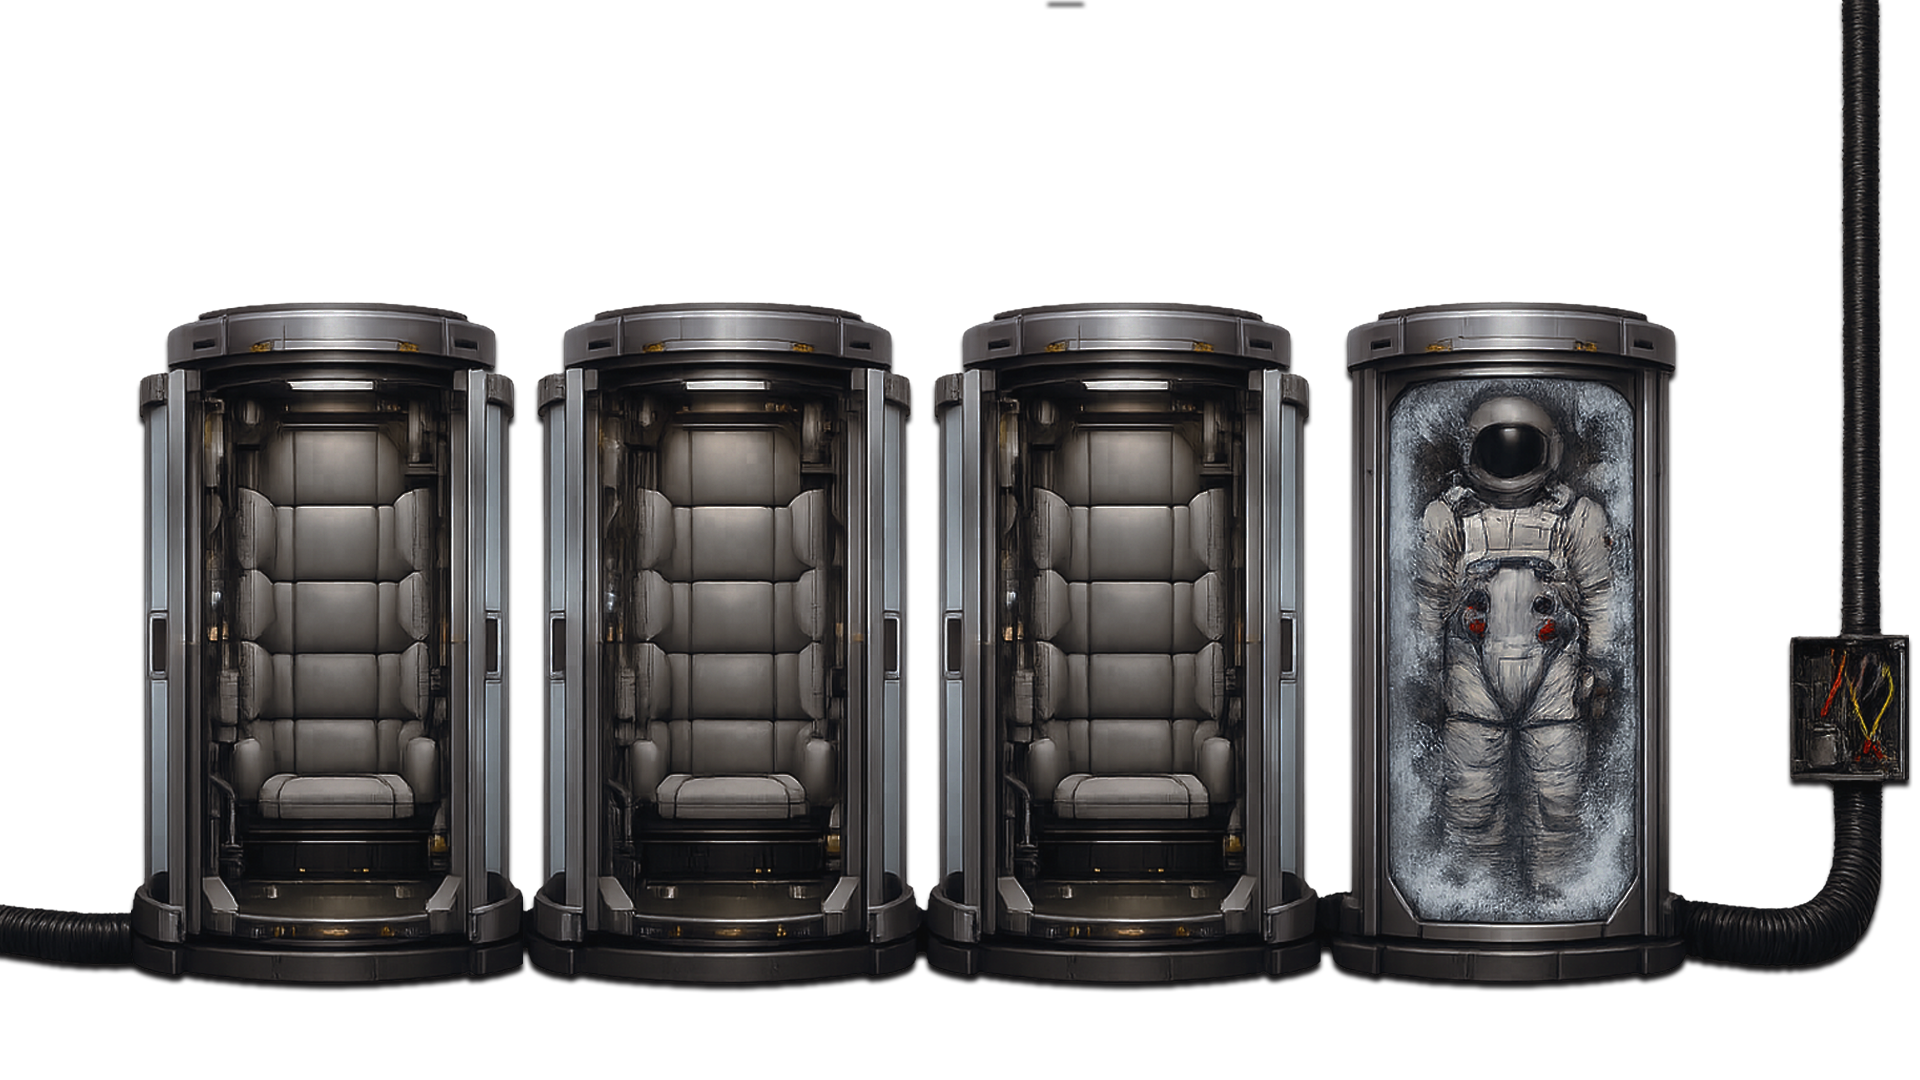
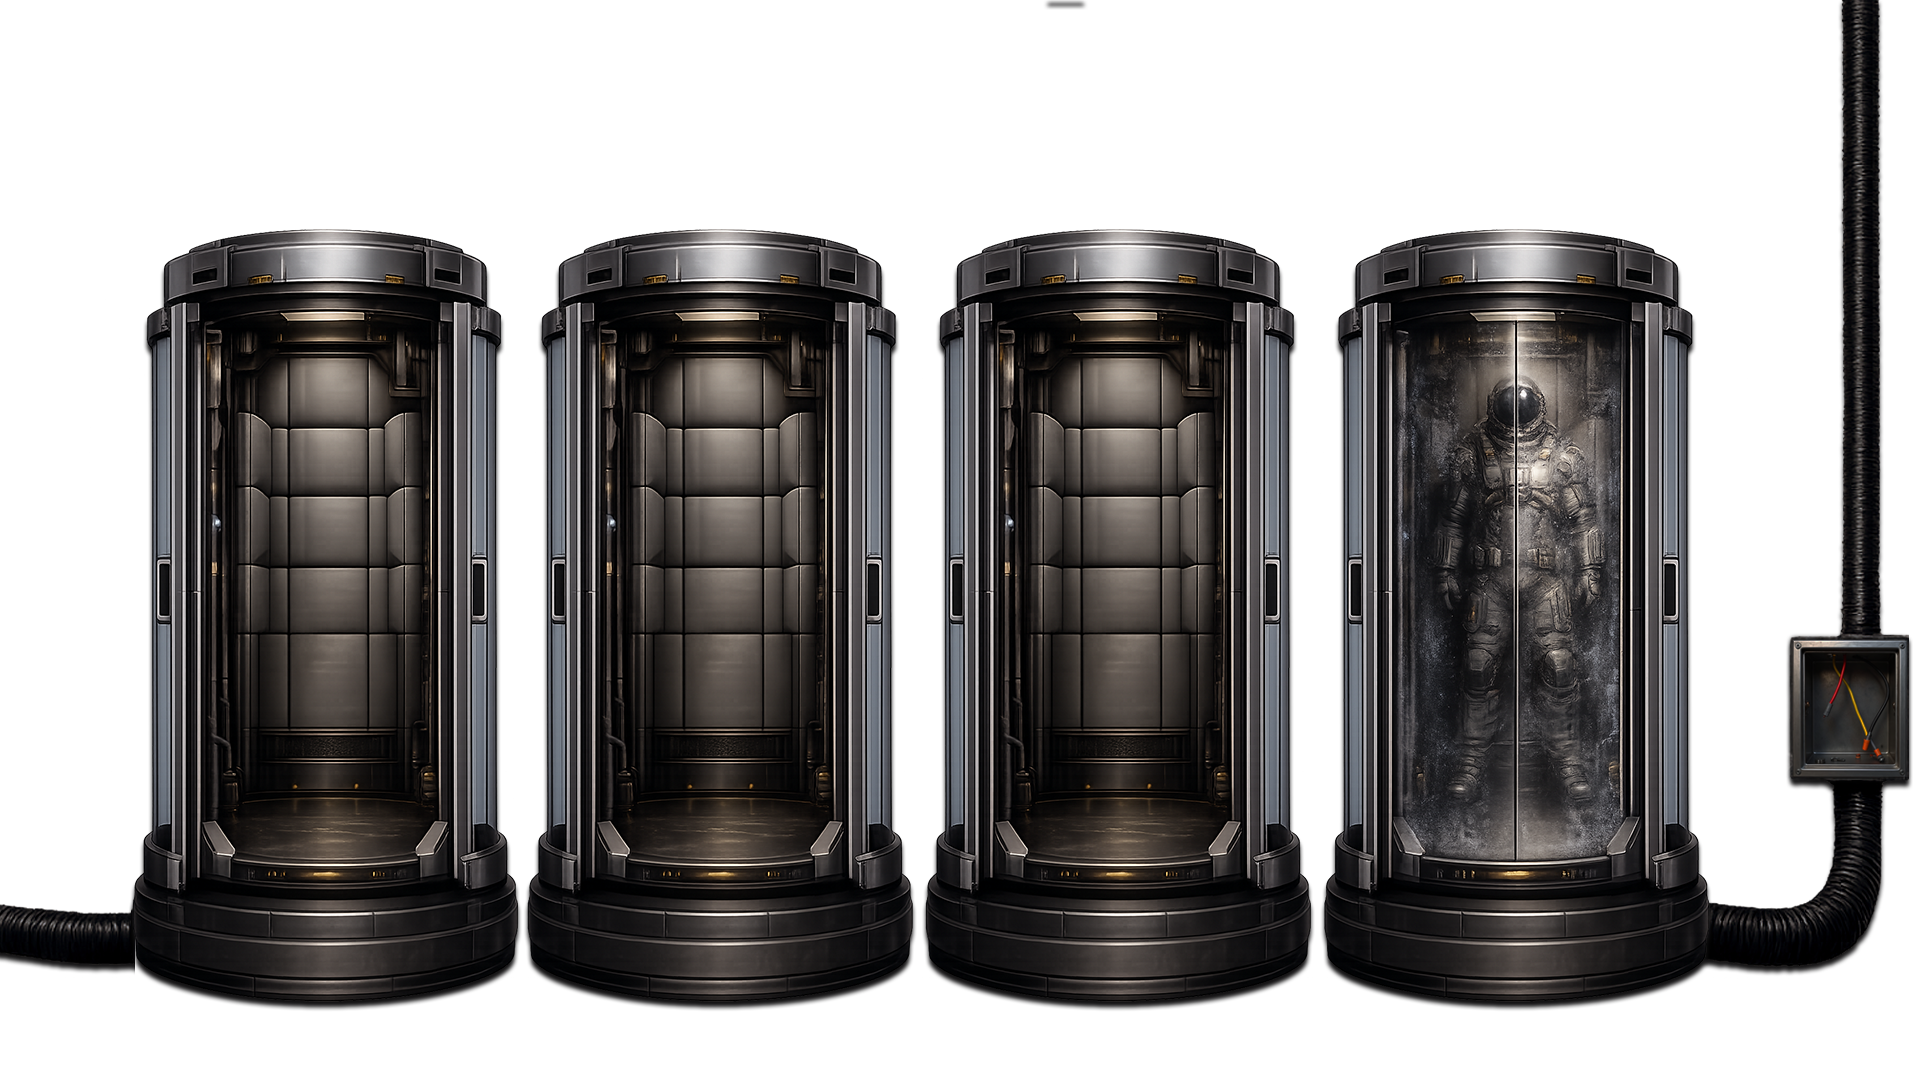
Cryo pod image state machine + wiring box hotspot
- index.html: swap logo to starlock_logo_2.png
- scenes.js: split wall_pods into 4 conditional sprites (A/B/C/D)
  driven by pod4_wiring_repaired, pod4_opened, bridge_door_unlocked flags
- scenes.js: add wiring_box hotspot (useItem: foil_strips)
- scenes.js: stub foil_strips item definition
- scenes.js: update STATE FLAGS docs, add CRYO PODS IMAGE STATES table
- Images: add Cryo Room 3 Pods B/C/D.png, starlock_logo_2.png
- Images: update Cryo Room 3 Pods.png (v=3 cache-buster)

diff --git a/js/scenes.js b/js/scenes.js
@@ -39,12 +39,12 @@
    items[id]          - { name, icon, description }
 
    STATE FLAGS:
-     pod4_wiring_repaired - the sabotaged wiring next to pod 4 has
-                            been reconnected. Required before the
-                            terminal will release pod 4.
-                            TODO: gated by a wiring-panel puzzle
-                            that hasn't been built yet. For dev
-                            testing, run `Engine.setFlag('pod4_wiring_repaired')`
+     pod4_wiring_repaired - the sabotaged wiring panel next to pod 4
+                            has been reconnected using foil strips.
+                            Required before the cryo terminal will
+                            allow pod 4 to be released.
+                            For dev testing, run:
+                              Engine.setFlag('pod4_wiring_repaired')
                             in the browser console.
      pod4_opened          - the science officer's pod has been
                             unsealed via the terminal. The corpse
@@ -57,6 +57,12 @@
                             corpse vanishes; the infected science
                             officer becomes a roaming threat).
                             (Set later, in a future room.)
+
+   CRYO PODS IMAGE STATES (Cryo Room 3 Pods *.png):
+     [default]              Pods.png   — wiring sabotaged, pod 4 sealed
+     pod4_wiring_repaired   Pods B.png — wiring patched, pod 4 still sealed
+     pod4_opened            Pods C.png — pod 4 open, body visible inside
+     bridge_door_unlocked   Pods D.png — pod 4 empty (officer has left)
    ============================================================ */
 
 const ITEMS = {
@@ -65,6 +71,15 @@ const ITEMS = {
     icon:   "Images/items/keycard.png",
     cursor: "Images/items/keycard_cursor.png",
     description: "Magnetic ID card pulled from the science officer's suit. Unlocks low-level crew systems.",
+  },
+
+  // TODO: add icon + cursor images when art is ready.
+  // Foil strips are found elsewhere in the ship and used to patch the
+  // severed wiring panel beside cryo pod 4.
+  foil_strips: {
+    name: "Foil Strips",
+    icon:   "Images/items/foil_strips.png",
+    description: "A few lengths of conductive foil tape. Thin enough to bridge a broken circuit.",
   },
 };
 
@@ -154,13 +169,38 @@ const ROOMS = {
         plate: "Images/Cryo%20Room%203.png?v=2",
         atmosphere: "cryo-emergency",
         sprites: [
-          // The whole row of 4 cryo pods is one transparent overlay.
-          // (Later we can swap this for a "pod 4 opened" variant by
-          //  flipping showIf/hideIf flags.)
+          // The pod overlay swaps between four variants depending on
+          // game state. Only one is ever visible at a time.
+          //
+          //   A — default: wiring sabotaged, pod 4 sealed
           {
-            id: "wall_pods",
-            image: "Images/Cryo%20Room%203%20Pods.png?v=2",
+            id: "wall_pods_a",
+            image: "Images/Cryo%20Room%203%20Pods.png?v=3",
             x: 0, y: 0, w: 1920, h: 1080,
+            hideIf: { all: ["pod4_wiring_repaired"] },
+          },
+          //   B — wiring patched, pod 4 still sealed
+          {
+            id: "wall_pods_b",
+            image: "Images/Cryo%20Room%203%20Pods%20B.png?v=1",
+            x: 0, y: 0, w: 1920, h: 1080,
+            showIf: { all: ["pod4_wiring_repaired"] },
+            hideIf: { all: ["pod4_opened"] },
+          },
+          //   C — pod 4 open, body visible
+          {
+            id: "wall_pods_c",
+            image: "Images/Cryo%20Room%203%20Pods%20C.png?v=1",
+            x: 0, y: 0, w: 1920, h: 1080,
+            showIf: { all: ["pod4_opened"] },
+            hideIf: { all: ["bridge_door_unlocked"] },
+          },
+          //   D — pod 4 empty (science officer has left)
+          {
+            id: "wall_pods_d",
+            image: "Images/Cryo%20Room%203%20Pods%20D.png?v=1",
+            x: 0, y: 0, w: 1920, h: 1080,
+            showIf: { all: ["bridge_door_unlocked"] },
           },
           // Crew keycard, retrievable from the science officer's suit
           // ONLY after the pod has been unsealed via the terminal.
@@ -174,9 +214,34 @@ const ROOMS = {
           },
         ],
         hotspots: [
-          // Four pod hotspots. All flavour/lore lives in the
-          // terminal close-up; the pod hotspots themselves give
-          // only the bare physical observation.
+          // ---- Wiring access panel (bottom-right of the pod wall) ----
+          // Disappears once the wiring has been repaired.
+          // NOTE: geom is an estimate — press D in-game to enter debug
+          // mode and see the hotspot overlay; adjust x/y/w/h as needed
+          // once the final art is in place.
+          {
+            id: "wiring_box",
+            shape: "rect",
+            geom: [1720, 840, 165, 160],
+            label: "Wiring access panel",
+            hideIf: { all: ["pod4_wiring_repaired"] },
+            action: {
+              type: "useItem",
+              accepts: ["foil_strips"],
+              onReject: {
+                message: "A small panel hangs open beside pod 4, exposing a bundle of wiring. Each connection has been cleanly severed — this wasn't an accident. Maybe the right materials could bridge the breaks.",
+              },
+              onAccept: {
+                message: "You press the foil strips across each severed connection, bridging the breaks one by one. The wiring hums faintly. A status indicator near pod 4 flickers on.",
+                flags: ["pod4_wiring_repaired"],
+                consume: true,
+              },
+            },
+          },
+
+          // ---- Four pod hotspots ----
+          // All flavour/lore lives in the terminal close-up; the pod
+          // hotspots themselves give only the bare physical observation.
           {
             id: "pod1",
             shape: "rect",

diff --git a/index.html b/index.html
@@ -23,7 +23,7 @@
       <img class="start-bg" src="Images/starlock_start_screen.png" alt="" />
       <!-- Layer 3: foreground content. -->
       <div class="start-content">
-        <img class="start-logo" src="Images/starlock_logo.png" alt="Starlock" />
+        <img class="start-logo" src="Images/starlock_logo_2.png" alt="Starlock" />
         <button id="start-button" class="start-btn" type="button"
                 data-tw-text="START">START</button>
       </div>
